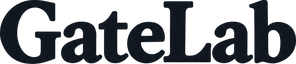
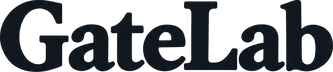
The header mark is the three plots, larger
From GateLab-dev master cedc36e (david-priest/GateLab-dev#378): the mark is the three plots
alone, 34 px tall with the wordmark at 18 px beside it.

diff --git a/src/styles.css b/src/styles.css
@@ -85,11 +85,11 @@ input[type="number"]::-webkit-outer-spin-button {
    CSS-only: no state, and it cannot get stuck open. `position: relative` on the wrapper anchors
    the card; the header itself must not clip it, so the card is fixed-width and left-aligned to
    the wrapper rather than centred (the name sits hard against the left edge of the window). */
-.gl-brand { position: relative; display: inline-flex; align-items: center; gap: 8px; flex: none; cursor: help; }
-/* The logo's mark and wordmark are PNGs cut from the artwork at four times these sizes, with the
-   paper knocked out, so they sit on the header's own colour at any pixel density. */
-.gl-brand-mark { display: block; height: 32px; width: auto; }
-.gl-brand-wordmark { display: block; height: 15px; width: auto; }
+.gl-brand { position: relative; display: inline-flex; align-items: center; gap: 10px; flex: none; cursor: help; }
+/* The logo's mark (the three plots) and wordmark are PNGs cut from the artwork at four times these
+   sizes, with the paper knocked out, so they sit on the header's own colour at any pixel density. */
+.gl-brand-mark { display: block; height: 34px; width: auto; }
+.gl-brand-wordmark { display: block; height: 18px; width: auto; }
 .gl-brand:focus-visible { outline: 2px solid var(--accent, #3b82f6); outline-offset: 2px; border-radius: 3px; }
 .gl-brand-card {
   position: absolute;

diff --git a/src/App.tsx b/src/App.tsx
@@ -11070,8 +11070,8 @@ export default function App() {
             stating where someone comparing two tools will actually find it. Focusable so it is
             reachable from the keyboard, not only on hover. */}
         <span className="gl-brand" tabIndex={0}>
-          {/* The logo: the mark, then the wordmark cut from the same artwork. GateLabR keeps its
-              name in text, since the wordmark says GateLab. */}
+          {/* The logo: the three plots as the mark, then the wordmark, both cut from the artwork.
+              GateLabR keeps its name in text, since the wordmark says GateLab. */}
           <img className="gl-brand-mark" src={brandMark} alt="" />
           {isSceHost ? <strong>GateLabR</strong> : <img className="gl-brand-wordmark" src={brandWordmark} alt="GateLab" />}
           <span className="gl-brand-card" role="tooltip">
